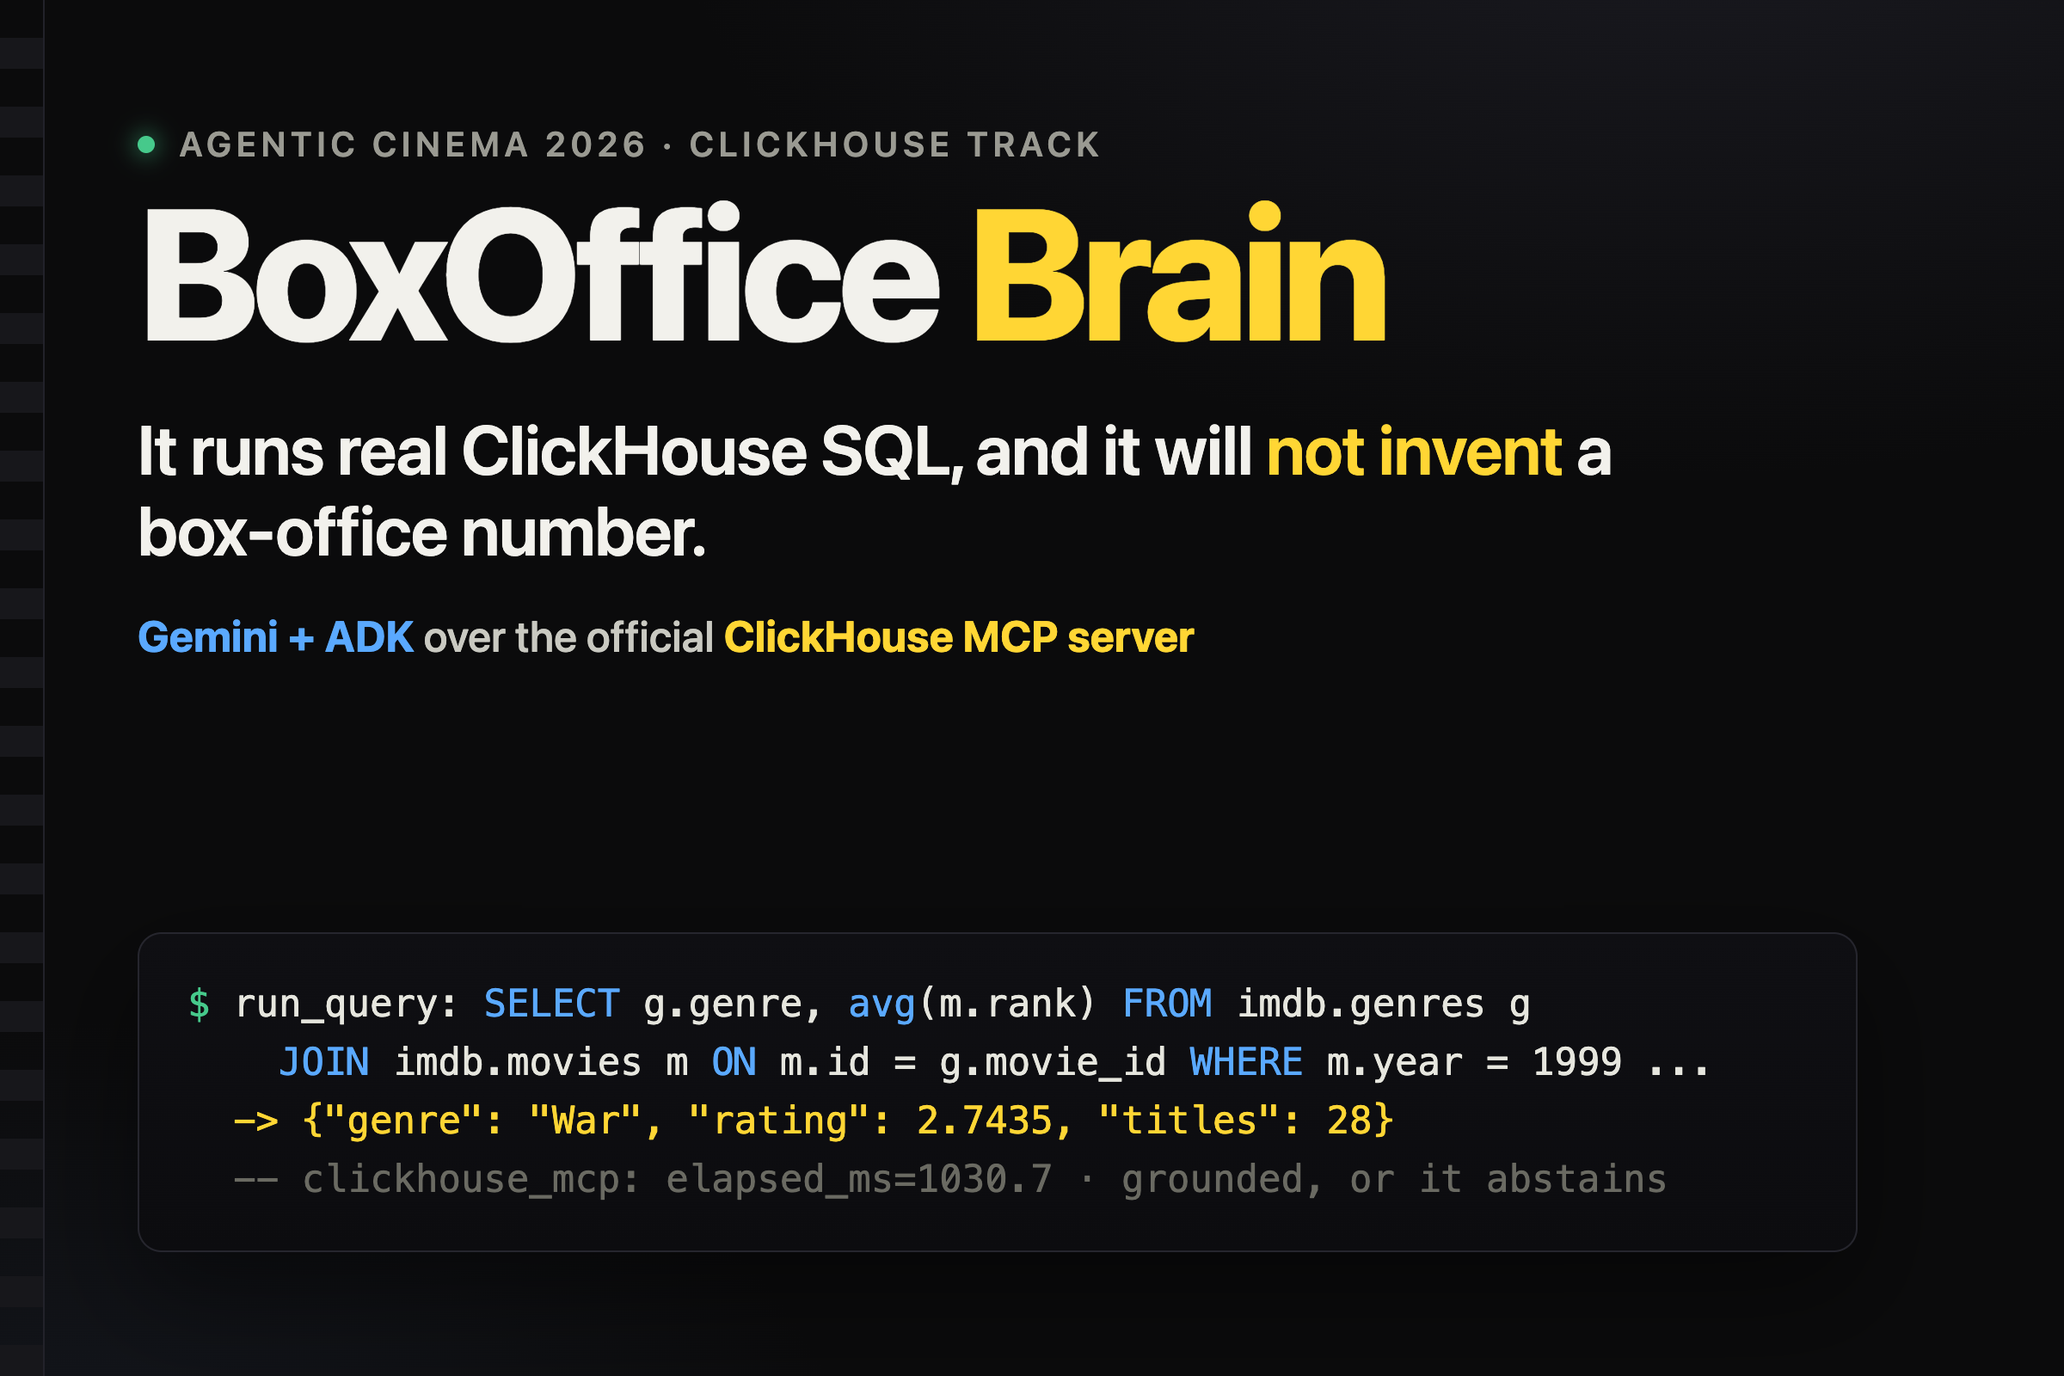
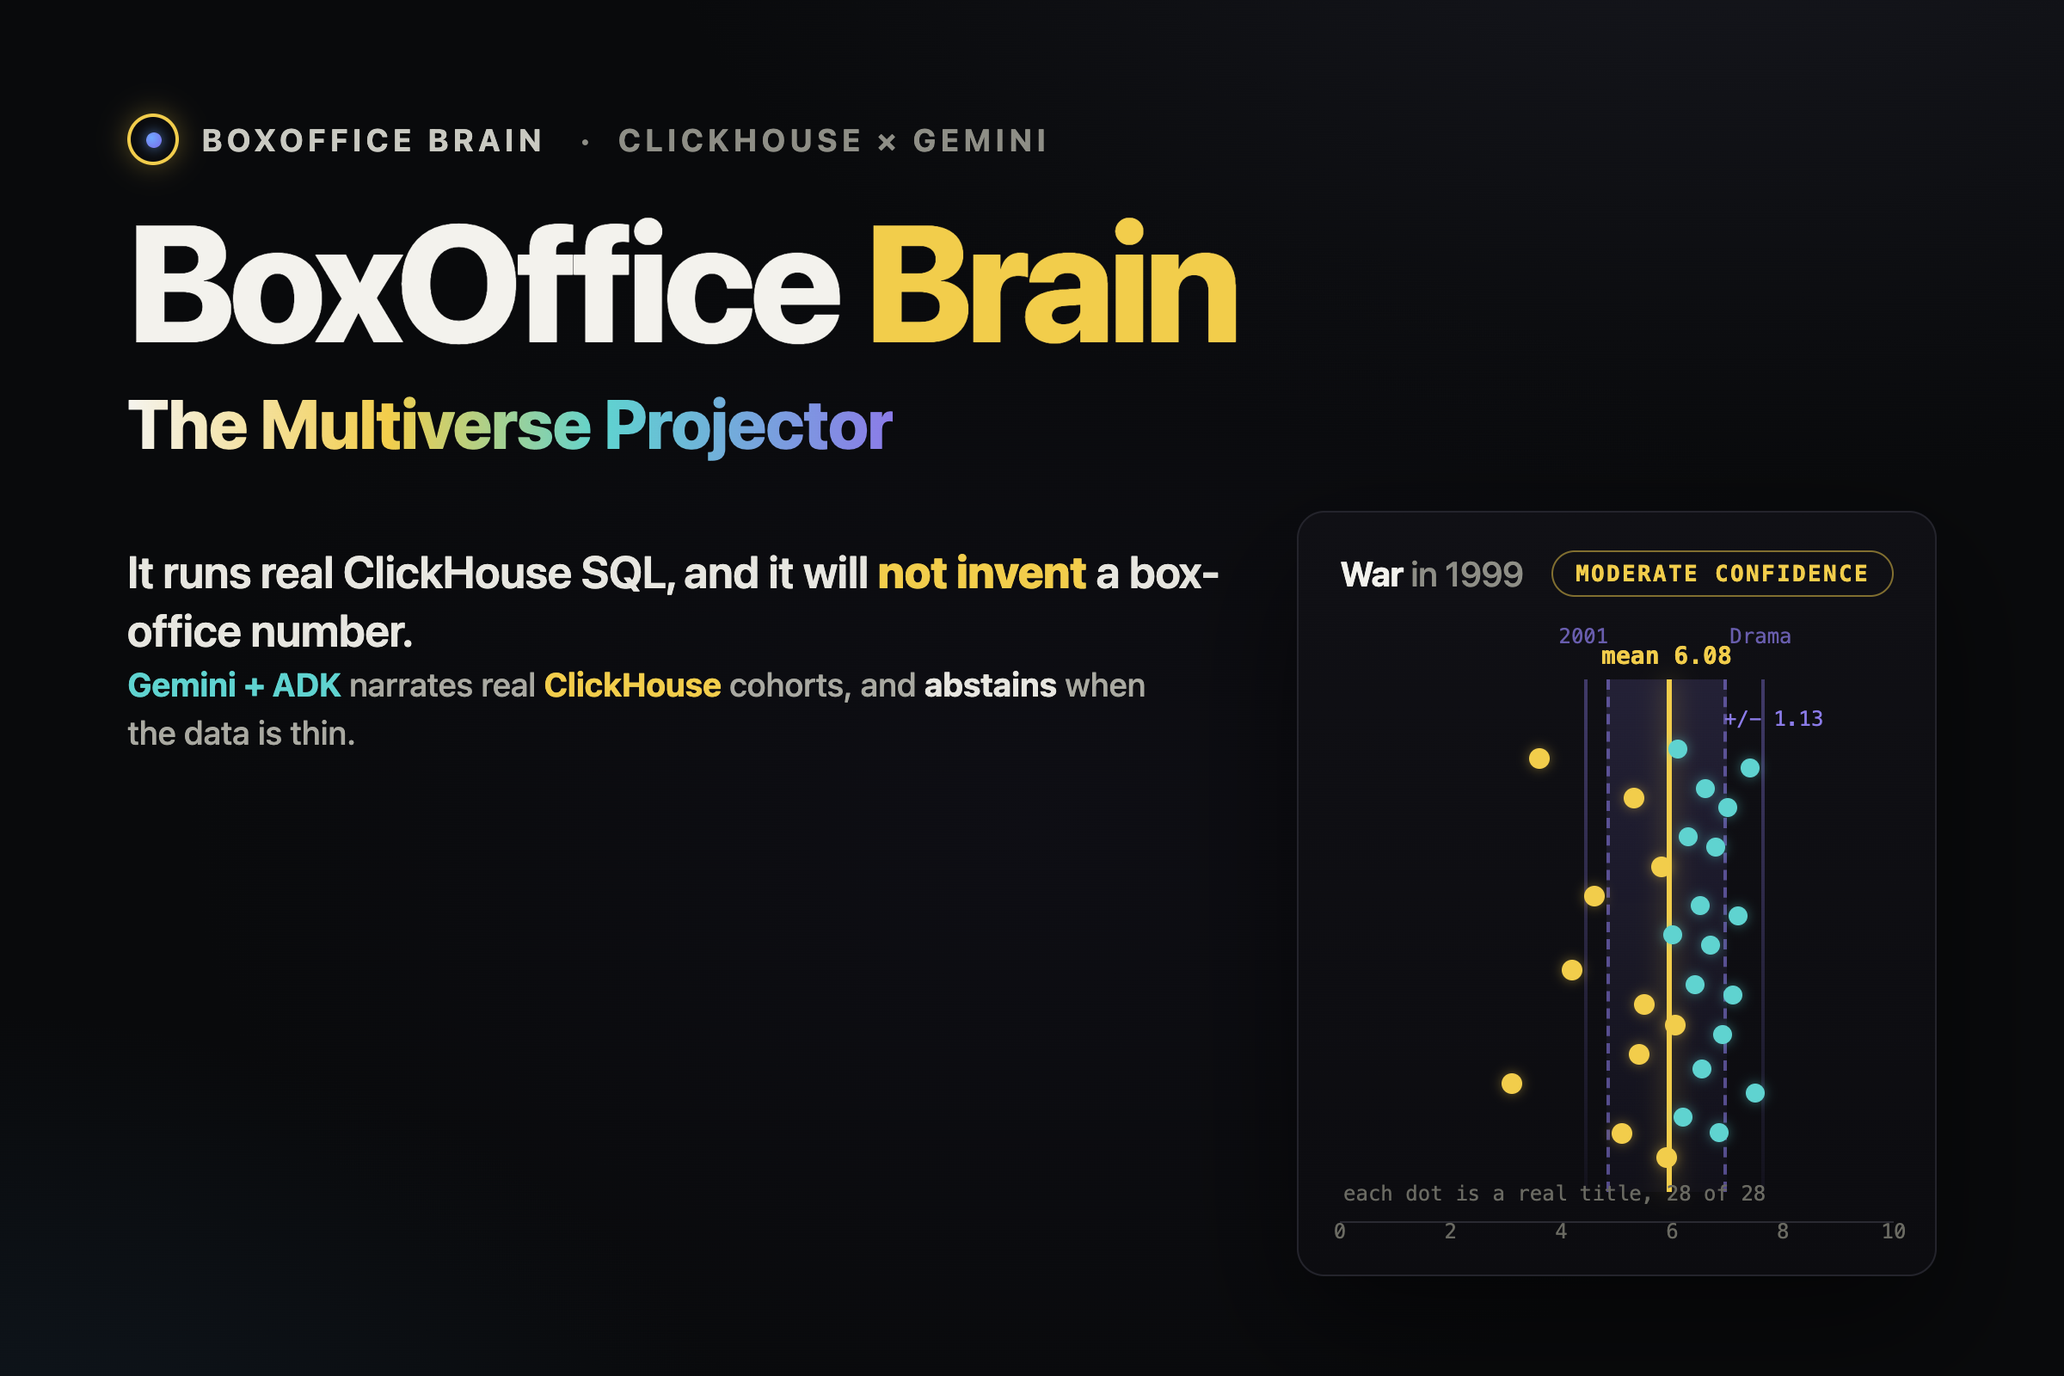
projector storytelling readme, refreshed screenshots and thumbnail, name and plot framing

diff --git a/docs/thumbnail.html b/docs/thumbnail.html
@@ -8,82 +8,238 @@
   body {
     font-family: -apple-system, "SF Pro Display", system-ui, sans-serif;
     background:
-      radial-gradient(1000px 620px at 82% -12%, #1B1B22 0%, rgba(11,11,12,0) 60%),
-      radial-gradient(820px 520px at 4% 110%, #14171E 0%, rgba(11,11,12,0) 55%),
-      #0B0B0C;
-    color: #F2F1EC;
+      radial-gradient(1100px 680px at 84% -14%, #17181F 0%, rgba(9,9,11,0) 58%),
+      radial-gradient(900px 560px at -4% 112%, #101820 0%, rgba(9,9,11,0) 55%),
+      radial-gradient(700px 520px at 50% 60%, #0E0E14 0%, rgba(9,9,11,0) 70%),
+      #090A0C;
+    color: #F3F2ED;
     width: 1200px; height: 800px;
-    padding: 72px 80px;
+    padding: 66px 74px 58px;
     display: flex;
     flex-direction: column;
-    justify-content: space-between;
     position: relative;
     overflow: hidden;
   }
-  .filmstrip {
-    position: absolute; top: 0; bottom: 0; left: 0; width: 26px;
+  .grain {
+    position: absolute; inset: 0; pointer-events: none;
     background:
-      repeating-linear-gradient(to bottom, transparent 0 22px, #17171B 22px 40px);
-    border-right: 1px solid #22222A;
+      radial-gradient(1px 1px at 20% 30%, rgba(255,255,255,0.04) 50%, transparent 51%),
+      radial-gradient(1px 1px at 70% 80%, rgba(255,255,255,0.03) 50%, transparent 51%);
+    opacity: 0.5;
   }
+
+  /* ---- header ---- */
   .kicker {
-    display: flex; align-items: center; gap: 14px;
-    font-size: 20px; letter-spacing: 0.14em; text-transform: uppercase;
-    color: #9A9A92; font-weight: 600;
+    display: flex; align-items: center; gap: 13px;
+    font-size: 18px; letter-spacing: 0.15em; text-transform: uppercase;
+    color: #8E8E86; font-weight: 700;
   }
-  .dot { width: 10px; height: 10px; border-radius: 50%; background: #46C98B;
-         box-shadow: 0 0 14px #46C98B; }
+  .logo {
+    width: 30px; height: 30px; border-radius: 50%;
+    border: 2px solid #F2CD4B;
+    display: flex; align-items: center; justify-content: center;
+    box-shadow: 0 0 16px rgba(242,205,75,0.35);
+    flex: none;
+  }
+  .logo i {
+    width: 9px; height: 9px; border-radius: 50%;
+    background: radial-gradient(circle at 35% 35%, #6FA8FF 0%, #7B6BE8 100%);
+    box-shadow: 0 0 8px rgba(111,168,255,0.8);
+  }
+  .kicker .name { color: #C9C9C1; }
+
   .brand {
-    font-size: 108px; font-weight: 800; letter-spacing: -0.035em; line-height: 0.98;
-    margin-top: 10px;
+    font-size: 96px; font-weight: 800; letter-spacing: -0.035em; line-height: 0.98;
+    margin-top: 20px;
   }
-  .brand .yellow { color: #FFD634; }
+  .brand .yellow { color: #F2CD4B; }
+
+  .subline {
+    font-size: 40px; font-weight: 800; letter-spacing: -0.02em; margin-top: 12px;
+    background: linear-gradient(90deg, #F5F4EF 0%, #F2CD4B 34%, #5FD3D0 62%, #8B7BE8 100%);
+    -webkit-background-clip: text; background-clip: text; color: transparent;
+    width: max-content;
+  }
   .tagline {
-    font-size: 40px; font-weight: 600; line-height: 1.18; letter-spacing: -0.015em;
-    max-width: 940px; margin-top: 26px; color: #F2F1EC;
+    font-size: 26px; font-weight: 600; line-height: 1.32; letter-spacing: -0.01em;
+    margin-top: 18px; color: #E7E6E0; max-width: 640px;
   }
-  .tagline .no { color: #FFD634; }
-  .stack {
-    font-size: 25px; color: #C9C9C1; margin-top: 24px; font-weight: 500;
+  .tagline .no { color: #F2CD4B; font-weight: 800; }
+
+  /* ---- content row ---- */
+  .row {
+    display: flex; gap: 40px; align-items: flex-start;
+    margin-top: 28px; flex: 1; min-height: 0;
   }
-  .stack b { color: #5AA9FF; font-weight: 700; }
-  .stack .ch { color: #FFD634; font-weight: 700; }
-  .card {
-    margin-top: 34px;
-    background: linear-gradient(180deg, #0F0F13 0%, #0C0C0F 100%);
-    border: 1px solid #26262E; border-radius: 14px;
-    padding: 24px 28px;
-    font-family: "SF Mono", ui-monospace, "JetBrains Mono", Menlo, monospace;
-    font-size: 22px; line-height: 1.55;
-    box-shadow: 0 24px 60px rgba(0,0,0,0.45);
-    max-width: 1000px;
+  .left { width: 640px; flex: none; display: flex; flex-direction: column; }
+
+  .foot {
+    margin-top: auto;
+    font-size: 19px; color: #A9A9A1; font-weight: 500; line-height: 1.5;
+    max-width: 600px;
   }
-  .card .prompt { color: #46C98B; }
-  .card .sql { color: #E6E6DE; }
-  .card .kw { color: #5AA9FF; }
-  .card .row { color: #FFD634; }
-  .card .comment { color: #6A6A62; }
+  .foot b { color: #5FD3D0; font-weight: 700; }
+  .foot .g { color: #F2CD4B; font-weight: 700; }
+  .foot .ab { color: #E7E6E0; font-weight: 700; }
+
+  /* ---- chart panel ---- */
+  .chart {
+    flex: 1; align-self: stretch;
+    background: linear-gradient(180deg, #101015 0%, #0C0C10 100%);
+    border: 1px solid #24242C; border-radius: 16px;
+    box-shadow: 0 30px 70px rgba(0,0,0,0.5);
+    padding: 22px 24px 18px;
+    position: relative;
+    display: flex; flex-direction: column;
+    overflow: hidden;
+  }
+  .chart-head {
+    display: flex; justify-content: space-between; align-items: center;
+    margin-bottom: 6px;
+  }
+  .chart-title { font-size: 20px; font-weight: 700; color: #F3F2ED; letter-spacing: -0.01em; }
+  .chart-title span { color: #8E8E86; font-weight: 500; }
+  .badge {
+    font-size: 13px; letter-spacing: 0.09em; text-transform: uppercase;
+    color: #F2CD4B; font-weight: 700;
+    border: 1px solid rgba(242,205,75,0.5); border-radius: 999px;
+    padding: 5px 13px;
+    font-family: "SF Mono", ui-monospace, Menlo, monospace;
+  }
+  .plot {
+    flex: 1; position: relative; margin-top: 8px;
+  }
+  /* vertical drawing region for lines/dots: leaves headroom at top for caption */
+  .ghost, .band, .mean { top: 34px; bottom: 30px; }
+  /* faint multiverse variants: parallel ghost mean lines */
+  .ghost {
+    position: absolute; width: 2px;
+    background: linear-gradient(180deg, rgba(139,123,232,0.4), rgba(139,123,232,0.05));
+  }
+  .ghost.g1 { left: 44%; }
+  .ghost.g2 { left: 76%; }
+  .ghost-cap {
+    position: absolute; font-size: 12px; color: rgba(139,123,232,0.72);
+    font-family: "SF Mono", ui-monospace, Menlo, monospace; transform: translateX(-50%);
+  }
+  /* spread band */
+  .band {
+    position: absolute;
+    left: 48%; width: 22%;
+    background: linear-gradient(180deg, rgba(139,123,232,0.16), rgba(139,123,232,0.04));
+    border-left: 2px dashed rgba(139,123,232,0.55);
+    border-right: 2px dashed rgba(139,123,232,0.55);
+  }
+  .band-cap {
+    position: absolute; top: 16px; right: 0; font-size: 12px;
+    color: #8B7BE8; font-family: "SF Mono", ui-monospace, Menlo, monospace;
+    transform: translateX(100%);
+  }
+  /* mean line */
+  .mean {
+    position: absolute; left: 59%; width: 3px;
+    background: #F2CD4B; box-shadow: 0 0 14px rgba(242,205,75,0.55);
+  }
+  .mean-cap {
+    position: absolute; top: 12px; left: 59%; transform: translateX(-50%);
+    font-size: 14px; color: #F2CD4B; font-weight: 600;
+    font-family: "SF Mono", ui-monospace, Menlo, monospace; white-space: nowrap;
+  }
+  .dot {
+    position: absolute; border-radius: 50%;
+  }
+  .dot.c { background: #5FD3D0; box-shadow: 0 0 7px rgba(95,211,208,0.5); }
+  .dot.y { background: #F2CD4B; box-shadow: 0 0 7px rgba(242,205,75,0.45); }
+  .axis {
+    position: absolute; left: 0; right: 0; bottom: 12px; height: 1px;
+    background: #2A2A32;
+  }
+  .tick {
+    position: absolute; bottom: 0; font-size: 12px; color: #6A6A62;
+    font-family: "SF Mono", ui-monospace, Menlo, monospace; transform: translateX(-50%);
+  }
+  .microcopy {
+    position: absolute; left: 2px; bottom: 22px;
+    font-size: 12px; color: #6A6A62;
+    font-family: "SF Mono", ui-monospace, Menlo, monospace;
+    white-space: nowrap;
+  }
 </style>
 </head>
 <body>
-  <div class="filmstrip"></div>
+  <div class="grain"></div>
 
-  <div>
-    <div class="kicker"><span class="dot"></span> Agentic Cinema 2026 · ClickHouse track</div>
-    <div class="brand">BoxOffice <span class="yellow">Brain</span></div>
-    <div class="tagline">
-      It runs real ClickHouse SQL, and it will <span class="no">not invent</span> a box-office number.
+  <div class="kicker">
+    <span class="logo"><i></i></span>
+    <span class="name">BoxOffice Brain</span> &nbsp;&middot;&nbsp; ClickHouse &times; Gemini
+  </div>
+
+  <div class="brand">BoxOffice <span class="yellow">Brain</span></div>
+  <div class="subline">The Multiverse Projector</div>
+
+  <div class="row">
+    <div class="left">
+      <div class="tagline">
+        It runs real ClickHouse SQL, and it will <span class="no">not invent</span> a box-office number.
+      </div>
+      <div class="foot">
+        <b>Gemini + ADK</b> narrates real <span class="g">ClickHouse</span> cohorts,
+        and <span class="ab">abstains</span> when the data is thin.
+      </div>
     </div>
-    <div class="stack">
-      <b>Gemini + ADK</b> over the official <span class="ch">ClickHouse MCP server</span>
+
+    <div class="chart">
+      <div class="chart-head">
+        <div class="chart-title">War <span>in 1999</span></div>
+        <div class="badge">Moderate confidence</div>
+      </div>
+      <div class="plot" id="plot">
+        <div class="ghost g1"></div>
+        <div class="ghost g2"></div>
+        <div class="ghost-cap" style="left:44%; top:2px;">2001</div>
+        <div class="ghost-cap" style="left:76%; top:2px;">Drama</div>
+
+        <div class="band"><span class="band-cap">+/- 1.13</span></div>
+        <div class="mean"></div>
+        <div class="mean-cap">mean 6.08</div>
+
+        <div class="microcopy">each dot is a real title, 28 of 28</div>
+
+        <div class="axis"></div>
+        <div class="tick" style="left:0%;">0</div>
+        <div class="tick" style="left:20%;">2</div>
+        <div class="tick" style="left:40%;">4</div>
+        <div class="tick" style="left:60%;">6</div>
+        <div class="tick" style="left:80%;">8</div>
+        <div class="tick" style="left:100%;">10</div>
+      </div>
     </div>
   </div>
 
-  <div class="card">
-    <div><span class="prompt">$</span> <span class="sql">run_query:</span> <span class="kw">SELECT</span> <span class="sql">g.genre,</span> <span class="kw">avg</span><span class="sql">(m.rank)</span> <span class="kw">FROM</span> <span class="sql">imdb.genres g</span></div>
-    <div><span class="sql">&nbsp;&nbsp;&nbsp;&nbsp;</span><span class="kw">JOIN</span> <span class="sql">imdb.movies m</span> <span class="kw">ON</span> <span class="sql">m.id = g.movie_id</span> <span class="kw">WHERE</span> <span class="sql">m.year = 1999 ...</span></div>
-    <div class="row">&nbsp;&nbsp;-&gt; {"genre": "War", "rating": 2.7435, "titles": 28}</div>
-    <div class="comment">&nbsp;&nbsp;-- clickhouse_mcp: elapsed_ms=1030.7 · grounded, or it abstains</div>
-  </div>
+  <script>
+    // scatter the "crowd" of comparable films across the rating axis
+    const plot = document.getElementById('plot');
+    // x is rating 0..10 mapped to 0..100%; y jittered in the vertical band
+    const pts = [
+      [3.6,0.12,'y'],[4.2,0.55,'y'],[3.1,0.78,'y'],[4.6,0.4,'y'],
+      [5.3,0.2,'y'],[5.5,0.62,'y'],[5.1,0.88,'y'],[5.8,0.34,'y'],[5.4,0.72,'y'],
+      [6.0,0.48,'c'],[6.1,0.1,'c'],[6.2,0.85,'c'],[6.05,0.66,'y'],[5.9,0.93,'y'],
+      [6.3,0.28,'c'],[6.4,0.58,'c'],[6.5,0.42,'c'],[6.6,0.18,'c'],[6.55,0.75,'c'],
+      [6.7,0.5,'c'],[6.8,0.3,'c'],[6.9,0.68,'c'],[6.85,0.88,'c'],[7.0,0.22,'c'],
+      [7.1,0.6,'c'],[7.2,0.44,'c'],[7.4,0.14,'c'],[7.5,0.8,'c']
+    ];
+    const topPad = 34, botPad = 30; // matches plot band region (top headroom for captions)
+    for (const [r,jy,cls] of pts) {
+      const d = document.createElement('div');
+      d.className = 'dot ' + cls;
+      const sz = cls === 'c' ? 11 : 12;
+      d.style.width = sz + 'px'; d.style.height = sz + 'px';
+      const xpct = (r/10)*100;
+      d.style.left = 'calc(' + xpct + '% - ' + (sz/2) + 'px)';
+      // vertical: place within [topPad+6 .. (100% - botPad - 6)]
+      d.style.top = 'calc(' + (topPad+6) + 'px + ' + jy + ' * (100% - ' + (topPad+botPad+12) + 'px))';
+      plot.appendChild(d);
+    }
+  </script>
 </body>
 </html>

diff --git a/boxoffice/narrate.py b/boxoffice/narrate.py
@@ -78,9 +78,26 @@ def _fallback(projection: dict[str, Any]) -> str:
             f"Confidence is {s.get('confidence')} given the sample size.")
 
 
-def narrate(projection: dict[str, Any]) -> dict[str, Any]:
-    """Return {story, by} where by is 'gemini' or 'grounded-summary'."""
+def narrate(projection: dict[str, Any], title: str = "", plot: str = "") -> dict[str, Any]:
+    """Return {story, by} where by is 'gemini' or 'grounded-summary'.
+
+    ``title`` and ``plot`` are an optional film the user is imagining. They frame
+    the read, but the model is told not to invent a rating for that specific film:
+    it would sit inside the real cohort distribution, and only the real numbers may
+    be quoted.
+    """
     facts = _facts(projection)
+    framing = ""
+    title, plot = (title or "").strip()[:120], (plot or "").strip()[:600]
+    if title or plot:
+        framing = "\n\nThe user is imagining a specific film"
+        if title:
+            framing += f' titled "{title}"'
+        if plot:
+            framing += f". Its plot: {plot}"
+        framing += (". Frame the read around this film and where it would sit inside this real "
+                    "cohort, but do not invent a rating or a box-office number for it. Only the "
+                    "real cohort numbers you were given are real.")
     try:
         from google import genai  # noqa: PLC0415
 
@@ -91,7 +108,7 @@ def narrate(projection: dict[str, Any]) -> dict[str, Any]:
         )
         resp = client.models.generate_content(
             model=settings.model_fast,
-            contents=f"{_SYSTEM}\n\nThe real data:\n{facts}\n\nWrite the read now.",
+            contents=f"{_SYSTEM}\n\nThe real data:\n{facts}{framing}\n\nWrite the read now.",
         )
         text = (getattr(resp, "text", "") or "").strip()
         if text:

diff --git a/boxoffice/server.py b/boxoffice/server.py
@@ -122,12 +122,14 @@ class Handler(BaseHTTPRequestHandler):
             if not genre or year is None:
                 self._json(400, {"error": "genre and year are required"})
                 return
+            title = str(body.get("title") or "")
+            plot = str(body.get("plot") or "")
             from .projection import project
             from .narrate import narrate
             try:
                 with _ask_lock:
                     proj = project(genre, int(year))
-                    story = narrate(proj)
+                    story = narrate(proj, title, plot)
             except Exception as exc:  # noqa: BLE001
                 self._json(500, {"error": f"{exc.__class__.__name__}: {exc}"})
                 return

diff --git a/README.md b/README.md
@@ -1,14 +1,30 @@
 # BoxOffice Brain
 
-A cinema-catalogue analytics agent. Ask it a question in plain English and it
-writes read-only ClickHouse SQL, runs it through **ClickHouse's own MCP server**,
-and answers with the numbers that actually came back, or tells you it cannot.
+A data-backed multiverse projector for film ideas. Pose a what-if (a genre and a
+year) and it pulls the real cohort of comparable titles from ClickHouse, shows
+them as a living crowd on the rating axis, and Gemini narrates where the idea
+would land using only the numbers that came back. Flip through parallel universes
+across years and genres and the crowd and the story re-form as you go. When a
+cohort is too thin, it abstains instead of inventing a shape. A second "Ask the
+data" tab is the direct plain-English to SQL path.
 
 **It runs real ClickHouse SQL, and it will not invent a box-office number.** Every
 figure is quoted from a row the database returned; when the rows cannot answer, it
 abstains instead of guessing.
 
 **[▶ Live demo](https://boxoffice-brain-744757588430.us-central1.run.app)**  ·  **[3-minute walkthrough](VIDEO_URL)**  ·  **[Paper (PDF)](paper/paper.pdf)**  ·  **[Deck (PDF)](deck/deck.pdf)**  ·  Gemini + ADK over the **[official ClickHouse MCP server](https://github.com/ClickHouse/mcp-clickhouse)**
+
+![The Multiverse Projector](docs/ui-projector.png)
+
+## How the projector works
+
+You pick a genre and a year and hit Project. Per scenario the agent runs four real
+read-only ClickHouse queries: the cohort (its size, mean rating, spread and range),
+the crowd of individual titles that fills the rating axis, the year trajectory that
+says whether the genre is trending up or down, and the sibling genres for the same
+year that let you jump sideways across the multiverse. Gemini reads those rows and
+writes the plain-language read; every dot, line and number on the page traces back
+to a row a query returned. If the cohort is too thin to call, it says so.
 
 ```
 $ BOX_TRANSPORT=mcp boxoffice ask "which genres underperformed in 1999 vs 1998?" --no-llm
@@ -28,8 +44,6 @@ is an association within the same cohort, not a demonstrated cause.
 
 Built for the **Agentic Cinema Blockbuster Hackathon 2026**, ClickHouse track, on
 the mandated Google Cloud stack (Gemini + ADK).
-
-![BoxOffice Brain running live over the official ClickHouse MCP server](docs/ui-live.png)
 
 ## The ClickHouse MCP server is doing the work
 
